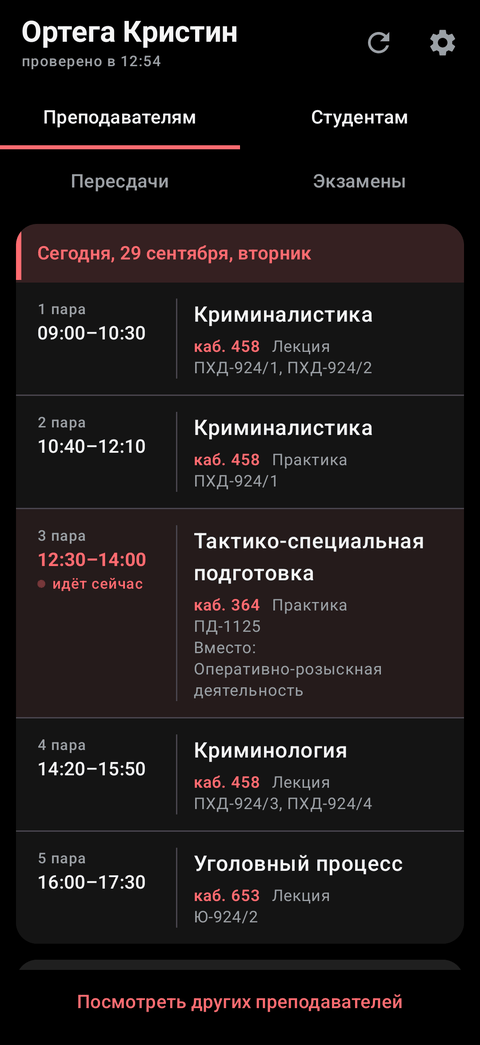
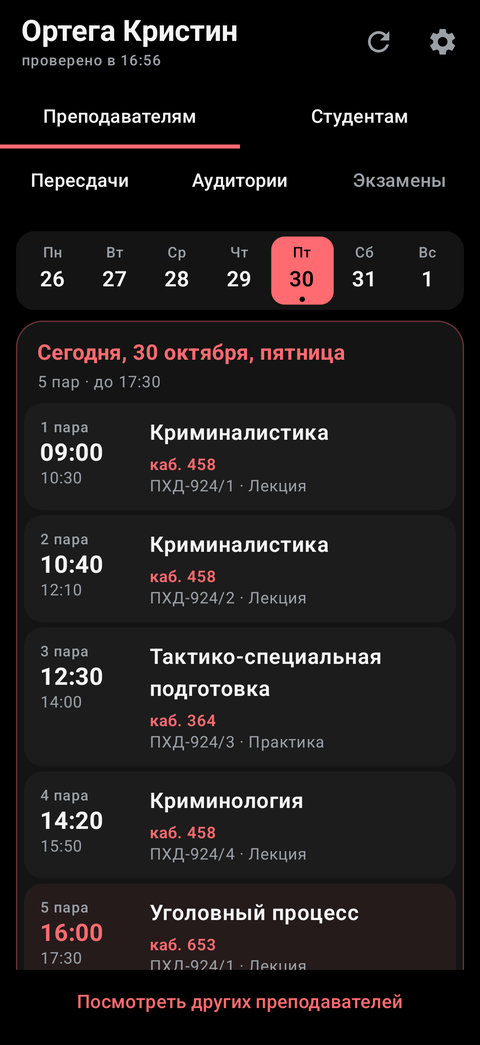
Пара: место цветным текстом без плашки, тип занятия после преподавателя, «идёт» одной строкой; новые снимки README и «Стекло»

diff --git a/android/app/src/main/java/ru/whensclass/ui/LessonRow.kt b/android/app/src/main/java/ru/whensclass/ui/LessonRow.kt
@@ -129,8 +129,6 @@ internal fun LessonRow(
             // Тип занятия и аудитория — то, ради чего сюда заглядывают: сразу
             // под названием и заметно.
             Row(verticalAlignment = Alignment.CenterVertically) {
-                // Аудитория ужимается, тип занятия — нет: иначе длинное
-                // название места съедает строку целиком.
                 val shrink = Modifier.weight(1f, fill = false)
                 if (lesson.isOnline) {
                     Place(onlineLabel(lesson).replaceFirstChar { it.uppercase() }, muted = past || foreign, modifier = shrink)
@@ -140,34 +138,23 @@ internal fun LessonRow(
                     val room = roomLabel(lesson.room)
                     Place(room ?: "Не указано", muted = room == null || past || foreign, modifier = shrink)
                 }
-                kindName(lesson.kind)?.let {
-                    Text(
-                        it,
-                        style = MaterialTheme.typography.bodySmall,
-                        color = MaterialTheme.colorScheme.onSurfaceVariant,
-                    )
-                }
             }
 
             lesson.url?.let { OnlineLink(it, muted = past) }
 
             // Подпись группы — вместо преподавателя: в своём расписании
             // преподавателю важно, кому читается пара.
-            val group = lesson.groups
-            if (group != null) {
+            val who = lesson.groups?.let(::listOf) ?: lesson.teachers.map(::shortenName)
+            // Тип занятия — через точку после последней подписи: рядом с длинным
+            // местом он висел бы посреди его строк.
+            val kind = kindName(lesson.kind)
+            (if (kind == null) who else if (who.isEmpty()) listOf(kind)
+            else who.dropLast(1) + "${who.last()} · $kind").forEach {
                 Text(
-                    group,
+                    it,
                     style = MaterialTheme.typography.bodySmall,
                     color = MaterialTheme.colorScheme.onSurfaceVariant,
                 )
-            } else {
-                lesson.teachers.forEach {
-                    Text(
-                        shortenName(it),
-                        style = MaterialTheme.typography.bodySmall,
-                        color = MaterialTheme.colorScheme.onSurfaceVariant,
-                    )
-                }
             }
 
             if (lesson.isCancelled) {
@@ -218,7 +205,7 @@ internal fun LessonRow(
                         NowDot()
                         Spacer(Modifier.width(5.dp))
                         Text(
-                            "идёт сейчас",
+                            "идёт",
                             style = MaterialTheme.typography.labelSmall,
                             color = MaterialTheme.colorScheme.primary,
                         )
@@ -266,7 +253,7 @@ internal fun LessonRow(
                         NowDot()
                         Spacer(Modifier.width(5.dp))
                         Text(
-                            "идёт сейчас",
+                            "идёт",
                             style = MaterialTheme.typography.labelSmall,
                             color = MaterialTheme.colorScheme.primary,
                         )
@@ -292,19 +279,12 @@ private fun Place(text: String, muted: Boolean = false, modifier: Modifier = Mod
         color = if (muted) MaterialTheme.colorScheme.onSurfaceVariant
         else MaterialTheme.colorScheme.primary,
         fontWeight = FontWeight.SemiBold,
-        // Две строки: аудитория бывает и текстом — «Спортзал Б.Хмельницкого
+        // Три строки: аудитория бывает и текстом — «Спортзал Б.Хмельницкого
         // 2», «выездная, с 15.00». Многоточие — чтобы обрыв не читался
         // самостоятельным названием.
-        maxLines = 2,
+        maxLines = 3,
         overflow = TextOverflow.Ellipsis,
-        modifier = modifier
-            .padding(end = 8.dp)
-            .background(
-                if (muted) MaterialTheme.colorScheme.onSurfaceVariant.copy(alpha = 0.12f)
-                else MaterialTheme.colorScheme.primary.copy(alpha = 0.12f),
-                RoundedCornerShape(10.dp),
-            )
-            .padding(horizontal = 8.dp, vertical = 1.dp),
+        modifier = modifier,
     )
 }
 

diff --git a/web/assets/js/ui/days.js b/web/assets/js/ui/days.js
@@ -131,13 +131,14 @@ function lessonRow(lesson, bells, isNow, key, groups, byName, saidAbove) {
     // Чья пара — первой строкой: сначала видно, что она не своя.
     foreign && !saidAbove ? h('div', { class: 'sub only-at' }, onlyAt(lesson.slots, groups)) : null,
     h('div', { class: 'subject' + (isCancelled(lesson) ? ' cancelled' : '') }, lesson.s),
-    h('div', { class: 'lesson-meta' }, place, kind ? h('span', { class: 'kind' }, kind) : null),
+    h('div', { class: 'lesson-meta' }, place),
     lesson.u ? onlineLink(lesson.u, key) : null,
     // Подпись группы — вместо преподавателя: у преподавателя важно, кому
     // читается пара. Чья пара у выбранных групп — видно по значкам.
-    lesson.gr != null
-      ? h('div', { class: 'sub' }, lesson.gr)
-      : (lesson.t || []).map(function (t) { return h('div', { class: 'sub' }, shortenName(t)); }),
+    // Тип занятия — через точку после последней подписи: рядом с длинным местом
+    // он висел бы посреди его строк.
+    whoLines(lesson.gr != null ? [lesson.gr] : (lesson.t || []).map(shortenName), kind)
+      .map(function (line) { return h('div', { class: 'sub' }, line); }),
     note(lesson));
   return h('div', { class: 'lesson' + (isNow ? ' now' : '') + (foreign ? ' foreign' : '') },
     h('div', { class: 'lesson-time' + (groups.length ? ' with-marks' : '') },
@@ -146,6 +147,13 @@ function lessonRow(lesson, bells, isNow, key, groups, byName, saidAbove) {
       isNow ? nowLabel() : null,
       groups.length ? groupMarks(lesson.slots || [], groups, byName) : null),
     body);
+}
+
+/** Подписи под парой; [kind] — тип занятия через точку после последней. */
+function whoLines(who, kind) {
+  if (!kind) return who;
+  if (!who.length) return [kind];
+  return who.slice(0, -1).concat(who[who.length - 1] + ' · ' + kind);
 }
 
 /**
@@ -176,7 +184,7 @@ export function groupMark(label, own, name) {
 var PULSE_MS = 2400;
 
 function nowLabel() {
-  var el = h('div', { class: 'now-label' }, 'идёт сейчас');
+  var el = h('div', { class: 'now-label' }, 'идёт');
   var now = window.performance && performance.now ? performance.now() : Date.now();
   el.style.setProperty('--pulse-shift', -(now % PULSE_MS) + 'ms');
   return el;

diff --git a/web/assets/days.css b/web/assets/days.css
@@ -190,23 +190,18 @@
 
 .place {
   min-width: 0;
-  margin-right: 8px;
-  padding: 0 8px;
-  border-radius: 10px;
-  background: var(--mark-bg);
   font-size: 13px;
   font-weight: 600;
-  line-height: 22px;
+  line-height: 18px;
   color: var(--primary);
   overflow: hidden;
   display: -webkit-box;
-  -webkit-line-clamp: 2;
+  -webkit-line-clamp: 3;
   -webkit-box-orient: vertical;
 }
 
 /* Место у пары не своей группы — серым, как в приложении. */
 .place.muted, .past .place, .foreign .place { color: var(--muted); }
-.kind { font-size: 13px; color: var(--muted); flex: none; }
 .sub { font-size: 13px; color: var(--muted); }
 .only-at { margin-bottom: 2px; font-size: 12px; white-space: nowrap; overflow: hidden; text-overflow: ellipsis; }
 

diff --git a/README.md b/README.md
@@ -36,6 +36,7 @@
 <p>
   <img src="docs/screenshots/today-dark.png" alt="Расписание, тёмная тема" width="250">
   <img src="docs/screenshots/today-light.png" alt="Расписание, светлая тема" width="250">
+  <img src="docs/screenshots/today-glass.png" alt="Расписание, тема «Стекло»" width="250">
   <img src="docs/screenshots/settings.png" alt="Настройки" width="250">
 </p>
 
